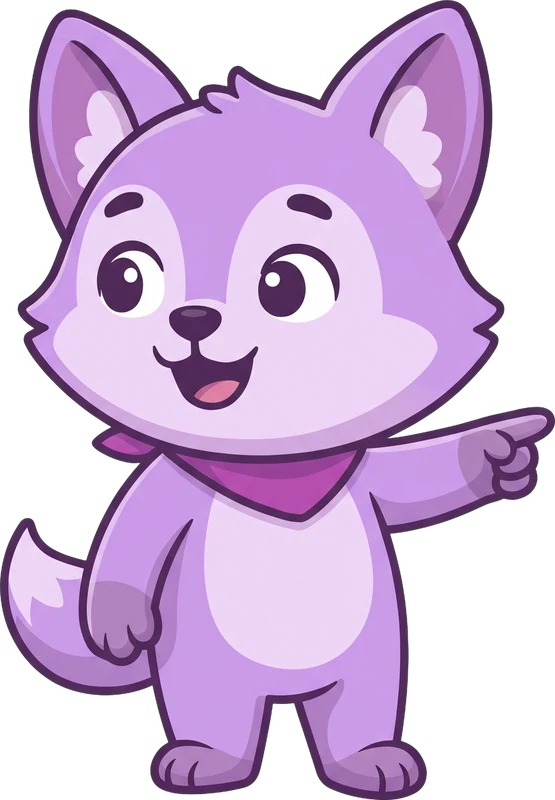
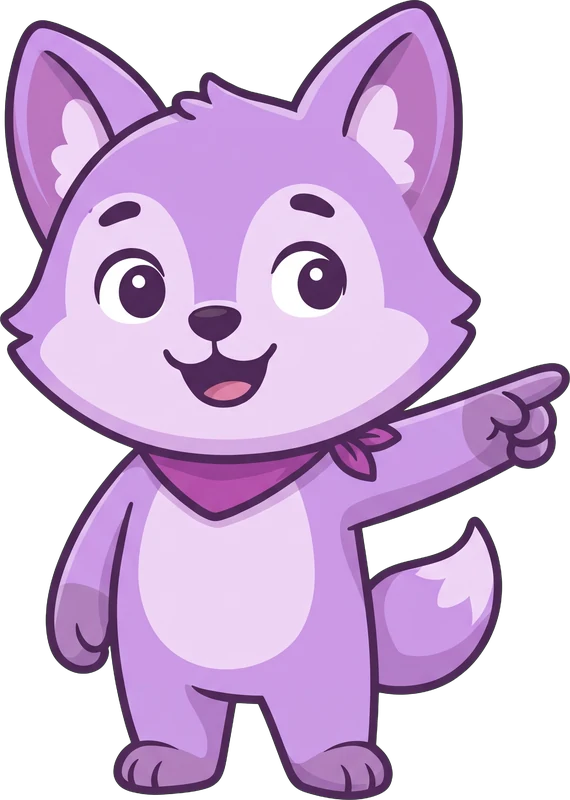
Mascot: new right-pointing pose, left pose mirrored from it
Claude-Session: https://claude.ai/code/session_01B74GG3YDkozARGx1eLhWoZ

diff --git a/src/components/mascot/Mascot.tsx b/src/components/mascot/Mascot.tsx
@@ -16,9 +16,9 @@ export type MascotPose =
   | "notepad";
 
 const POSES: Record<MascotPose, { src: string; w: number; h: number; alt: string }> = {
-  // Mirror of point-right: Gemini's left-pointing art looked the other way.
-  "point-left": { src: "/mascot/kenzo-point-left.webp", w: 555, h: 800, alt: "Kenzo pointing" },
-  "point-right": { src: "/mascot/kenzo-point-right.webp", w: 555, h: 800, alt: "Kenzo pointing" },
+  // Mirror of point-right, so both poses look where they point.
+  "point-left": { src: "/mascot/kenzo-point-left.webp", w: 570, h: 800, alt: "Kenzo pointing" },
+  "point-right": { src: "/mascot/kenzo-point-right.webp", w: 570, h: 800, alt: "Kenzo pointing" },
   present: { src: "/mascot/kenzo-present.webp", w: 655, h: 800, alt: "Kenzo with arms open" },
   thinking: { src: "/mascot/kenzo-thinking.webp", w: 502, h: 800, alt: "Kenzo thinking" },
   celebrate: { src: "/mascot/kenzo-celebrate.webp", w: 623, h: 800, alt: "Kenzo celebrating" },
